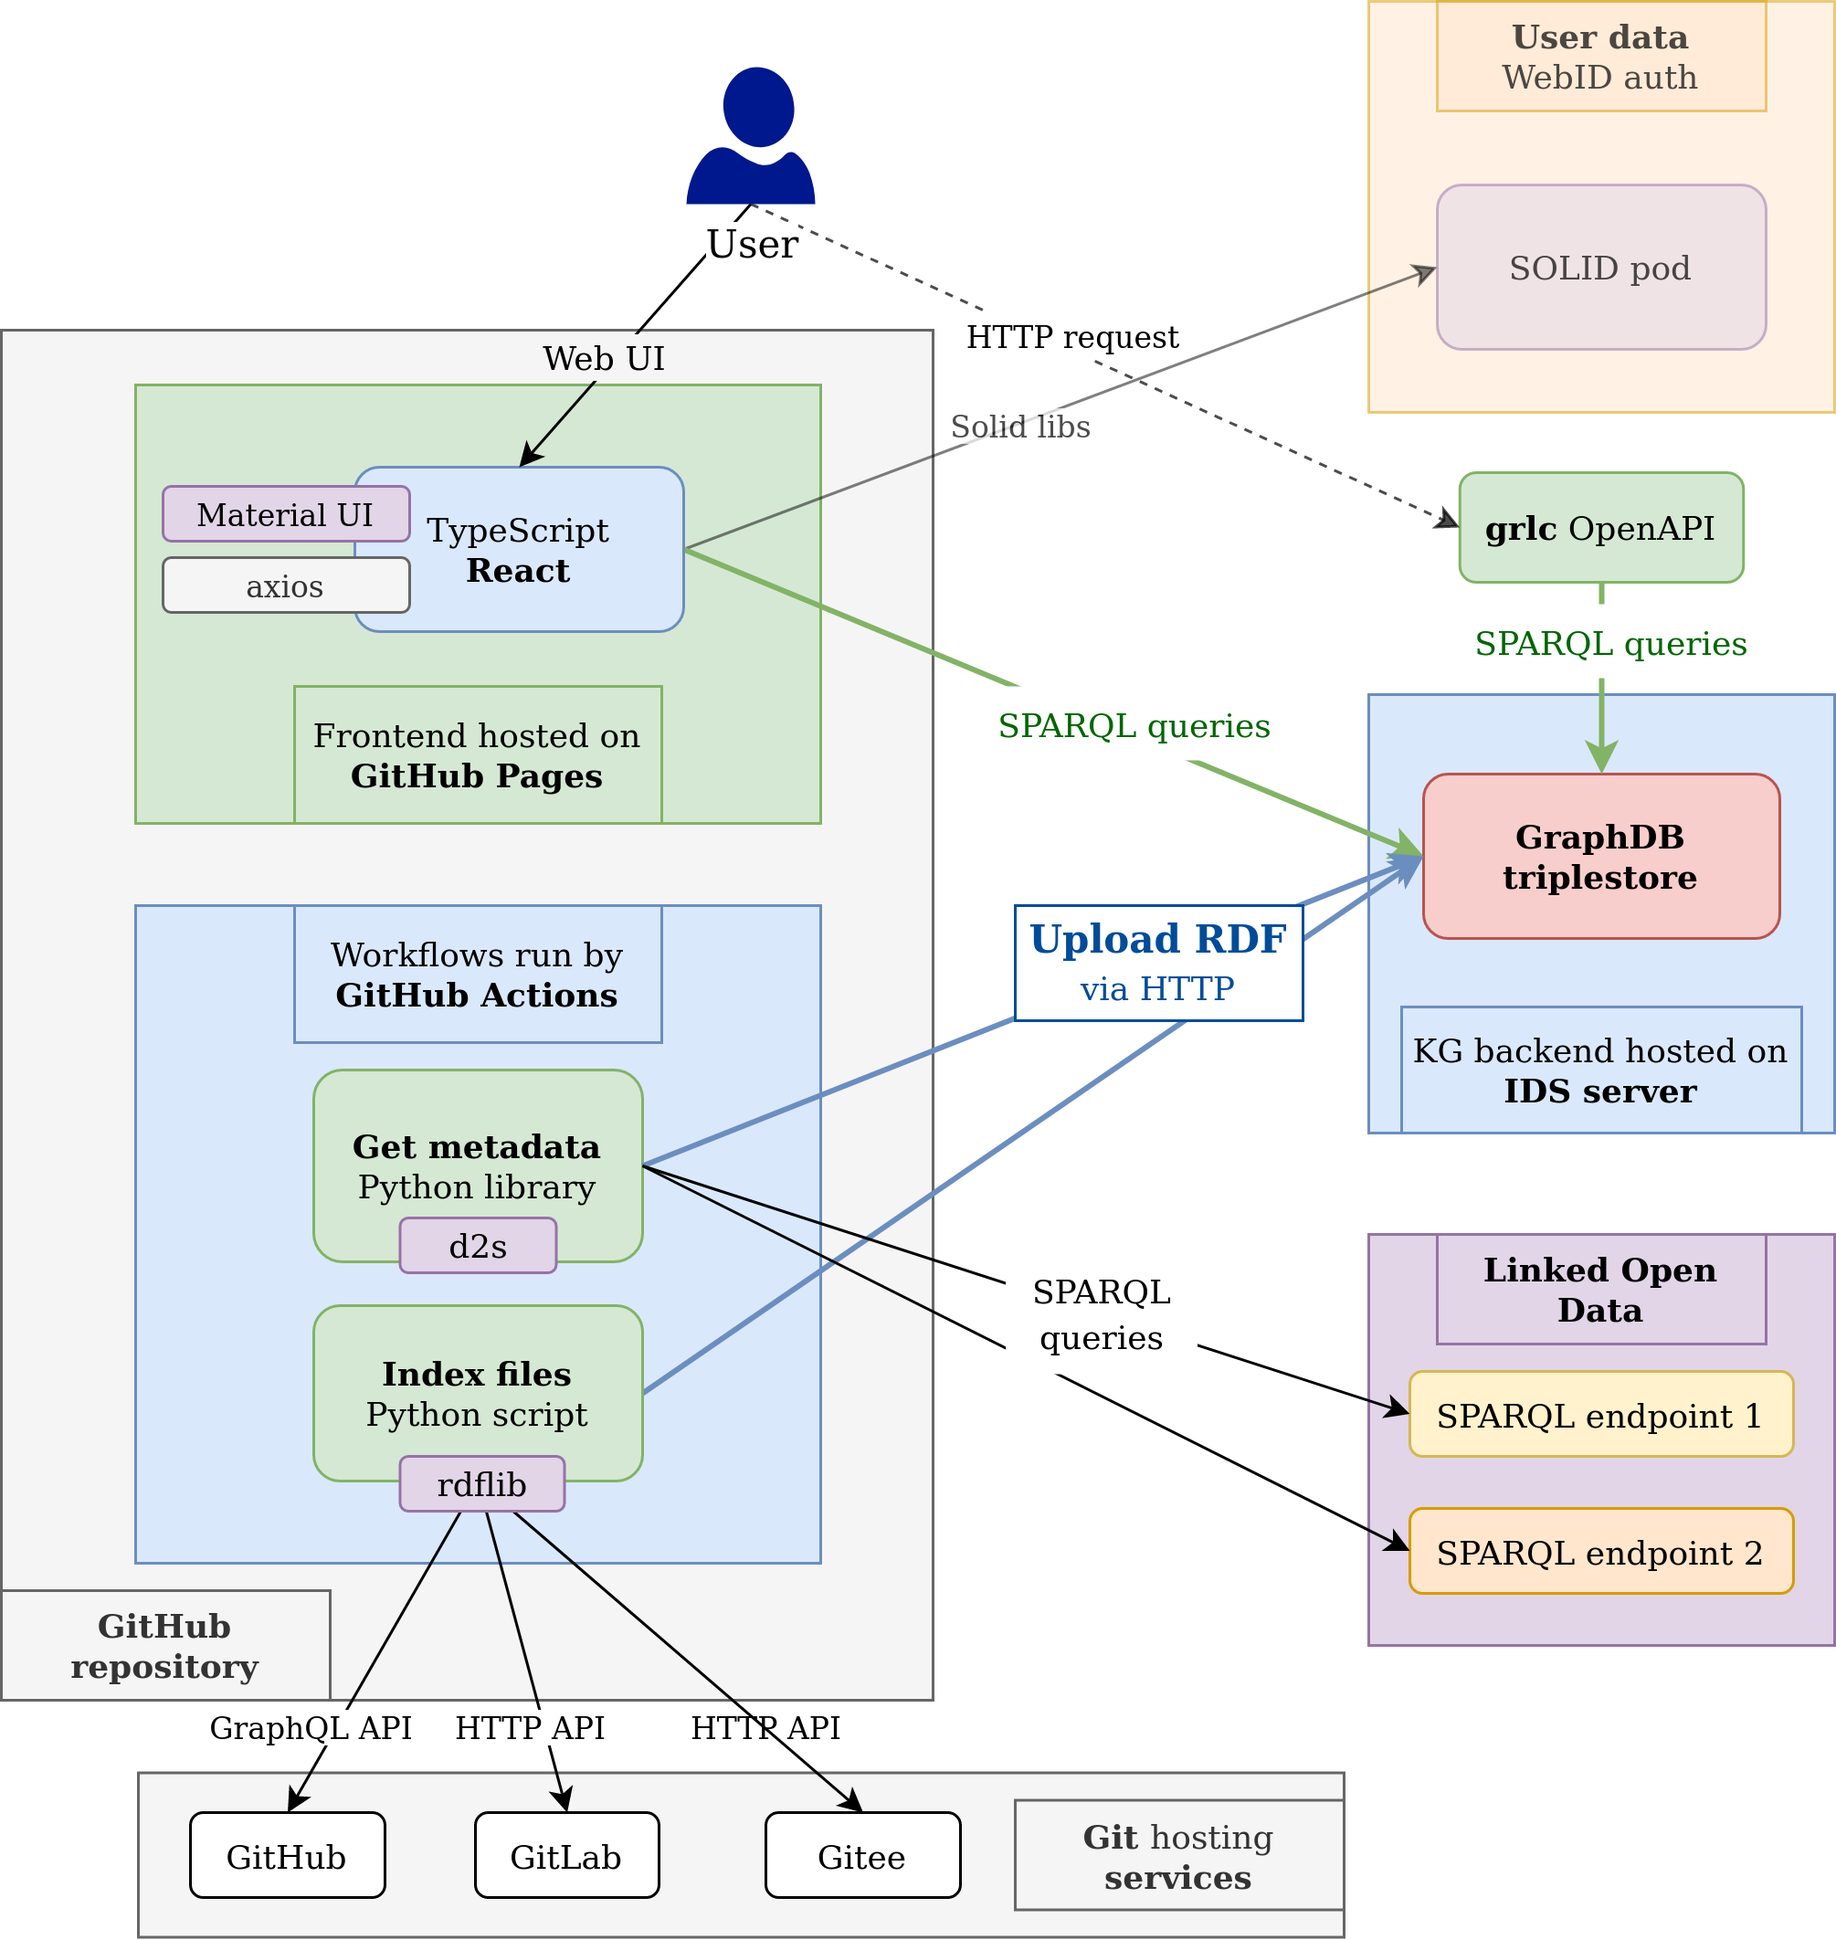
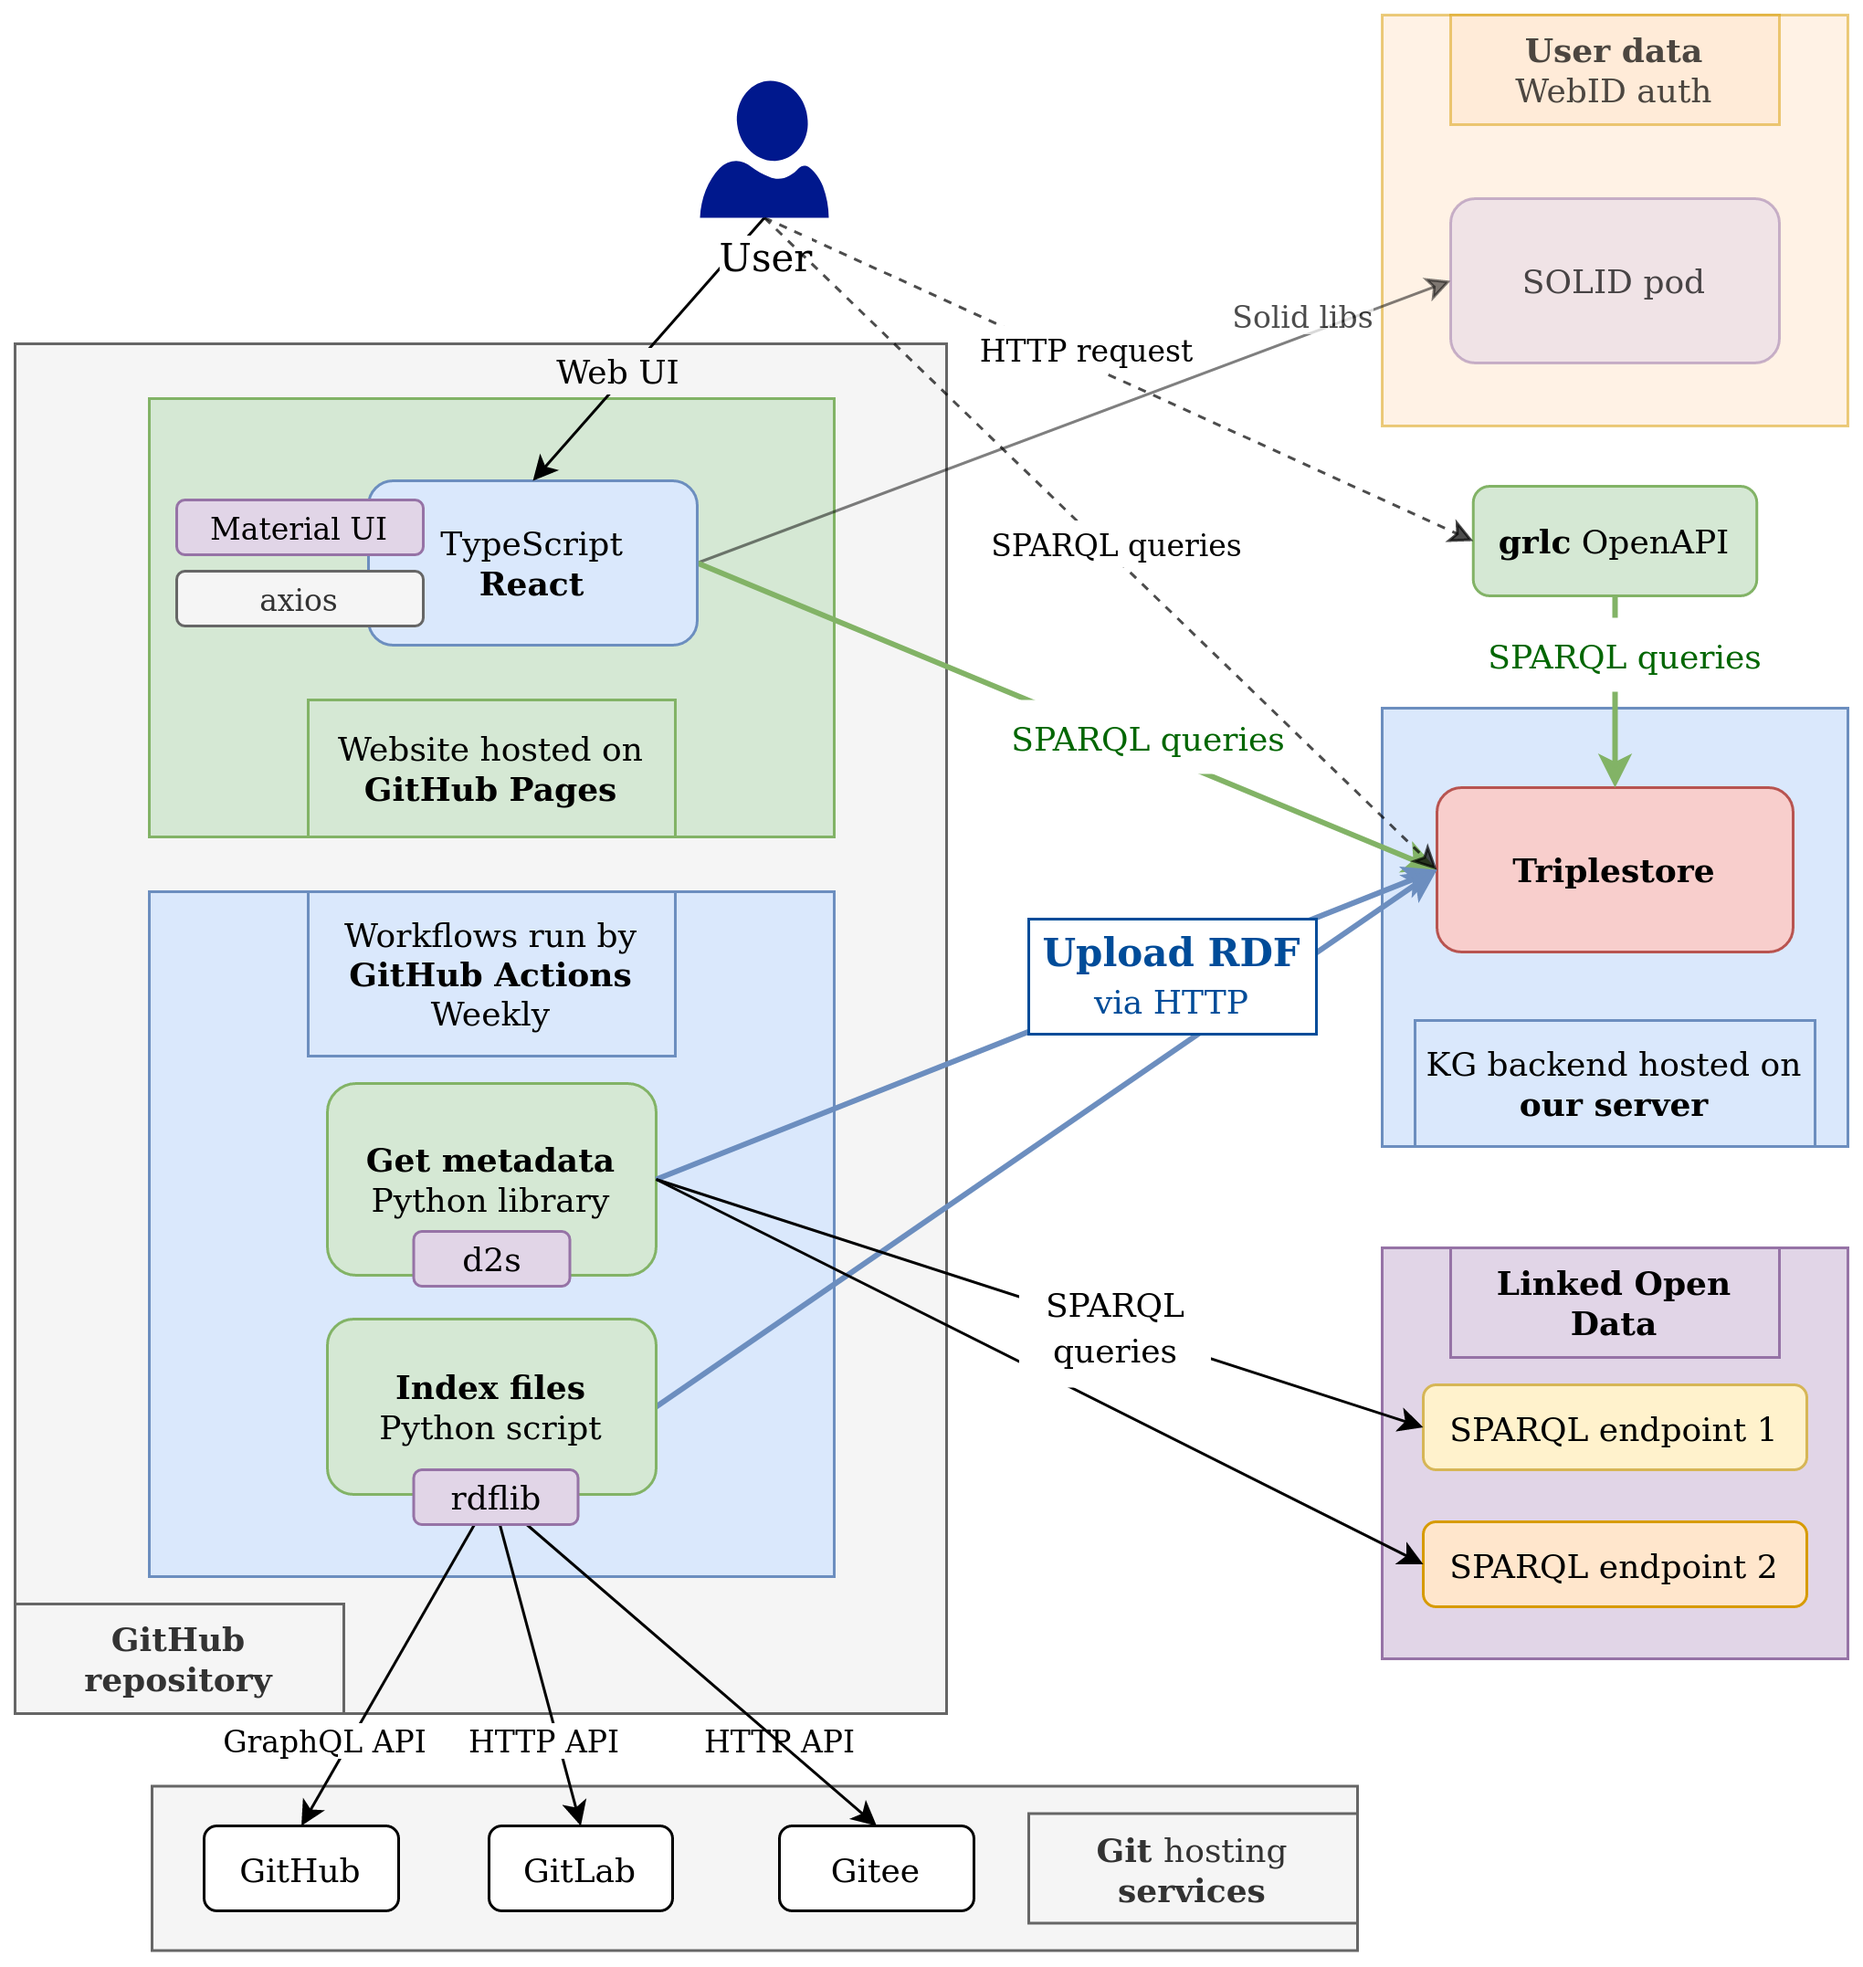
update website for more details

diff --git a/website/src/pages/About.tsx b/website/src/pages/About.tsx
@@ -126,17 +126,9 @@ export default function About() {
               To insure their validity, all indexed files are parsed using the corresponding python package (rdflib, obonet, prance). We also query each SPARQL endpoint to make sure they are active.
             </Typography>
 
-            {/* <a href="https://github.com/vemonet/shapes-of-you/actions?query=workflow%3A%22Index+shapes%22" target="_blank" rel="noopener noreferrer">
-              <img src="https://github.com/vemonet/shapes-of-you/workflows/Index%20shapes/badge.svg" 
-              style={{marginBottom: theme.spacing(2)}} />
-            </a> */}
-
-            {/* <Typography>
-              Add the tag <code>shacl-shapes</code> or <code>shex</code> or <code>grlc</code> to your GitHub repository, we automatically index all SPARQL queries (<code>.rq</code>, <code>.sparql</code>), ShEx (<code>.shex</code>), SHACL files (<code>.ttl</code>, <code>.rdf</code>, <code>.jsonld</code>, <code>.trig</code>, <code>.nq</code>, etc) containing at least one <code>sh:NodeShape</code> from all repositories everyday at 1:00 and 13:00 🕐
-            </Typography> */}
             <Typography>
               To be found by our indexer, make sure your repository description, or topics, on <a href="https://github.com" className={classes.link} target="_blank" rel="noopener noreferrer">GitHub</a>, <a href="https://gitlab.com" className={classes.link} target="_blank" rel="noopener noreferrer">GitLab</a>, or <a href="https://gitee.com" className={classes.link} target="_blank" rel="noopener noreferrer">Gitee</a> code repositories includes one of the resources mentionned below,&nbsp;
-              we automatically index files from public repositories everyday at 1:00 GMT+1 🕐
+              we automatically index files from public repositories every week on Saturday at 1:00 GMT+1 🕐
             </Typography>
             <List>
               <ListItem>

diff --git a/website/src/components/NavBar.tsx b/website/src/components/NavBar.tsx
@@ -114,7 +114,7 @@ export default function NavBar() {
                   </IconButton>
                 }
                 title="⚡ List of active SPARQL endpoints"
-                subheader='Endpoints are tested daily to make sure they are active. They are extracted from queries metadata and the LOD. We automatically import all SPARQL queries in YASGUI for the endpoint you select'
+                subheader='Endpoints are tested to make sure they are active. They are extracted from queries metadata and the LOD. We automatically import all SPARQL queries in YASGUI for the endpoint you select'
                 style={{paddingBottom: '0px'}}
               />
             <CardContent>

diff --git a/website/src/pages/SparqlEndpointsList.tsx b/website/src/pages/SparqlEndpointsList.tsx
@@ -105,6 +105,10 @@ export default function SparqlEndpointsList() {
   // Define rendering of the page:
   return(
     <Container>
+      <Typography variant='body2'>
+        Graph summaries are generated by running SPARQL queries on the availabe endpoints, we used the <a href="https://www.w3.org/TR/hcls-dataset/" className={classes.link} target="_blank" rel="noopener noreferrer">HCLS metadata profile</a> to define the queries.
+      </Typography>
+
       {state.sparql_endpoints_array.length < 1 && (
         <div style={{textAlign: 'center'}}>
           <CircularProgress style={{padding: theme.spacing(10, 10)}} />

diff --git a/etl/index_shapes.py b/etl/index_shapes.py
@@ -584,6 +584,11 @@ def process_shapes_file(shape_format, shapes_graph, rdf_file_path, repo_url, bra
           for file_label in g.objects(shape_file, RDFS.label):
             shapes_graph.add((file_uri, RDFS.comment, Literal(str(file_label))))
             break
+          for sparql_endpoint in g.objects(None, VOID.sparqlEndpoint):
+            shapes_graph.add((file_uri, VOID.sparqlEndpoint, URIRef(sparql_endpoint)))
+            # TODO: currently break to only add 1 if multiple, multi endpoints need to be checked
+            # TODO: test it with GSS-Cogs/csvw-example DCAT datasets
+            break
           # shape_label = shape_file
           # for label in g.objects(shape_file, RDFS.label):
           #     # Try to get the label of the shape
